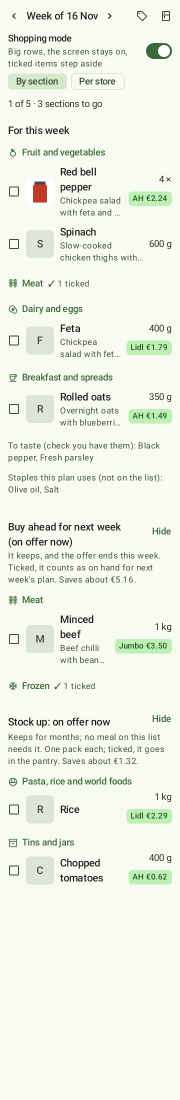
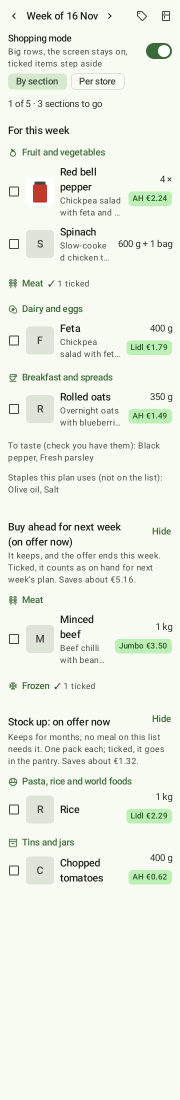
Shopping list keeps amounts that cannot be weighed on the row (#100)
A line without a weight (1 bag, an unlinked 250 ml) made the whole item lose its
grams or its amount. ShoppingItem gets two optional fields, knownGrams and
otherAmounts, so the row reads 200 g + 1 bag; grams and pieces keep their meaning
for installed apps.

diff --git a/server/src/test/kotlin/dev/tobins/mealplanner/server/ShoppingNeedsTest.kt b/server/src/test/kotlin/dev/tobins/mealplanner/server/ShoppingNeedsTest.kt
@@ -1,0 +1,72 @@
+package dev.tobins.mealplanner.server
+
+import dev.tobins.mealplanner.api.Ingredient
+import dev.tobins.mealplanner.recipes.IngredientLine
+import dev.tobins.mealplanner.units.Dimension
+import kotlin.test.Test
+import kotlin.test.assertEquals
+import kotlin.test.assertNull
+
+class ShoppingNeedsTest {
+    private val spinach = Ingredient(1, "Spinach", null, null, null, null, null, isStaple = false)
+
+    private fun grams(amount: Double, item: String) = IngredientLine(amount, "g", Dimension.WEIGHT, amount, item, null)
+    private fun count(amount: Double, unit: String, item: String) = IngredientLine(amount, unit, Dimension.COUNT, null, item, null)
+    private fun millilitres(amount: Double, item: String) = IngredientLine(amount, "ml", Dimension.VOLUME, amount, item, null)
+
+    /** The needs of one-serving recipes, one per argument, each planned for [portions] portions. */
+    private fun needs(portions: Double, vararg recipes: List<Pair<IngredientLine, Ingredient?>>): List<ShoppingNeed> {
+        val planned = recipes.indices.map { PlannedRecipe(it.toLong(), "R$it", portions) }
+        val lines = recipes.mapIndexed { i, l -> i.toLong() to RecipeLines(1, l) }.toMap()
+        return shoppingNeeds(planned, lines, emptyMap()).needs
+    }
+
+    @Test
+    fun weightAndAnUnweighableCountOfOneIngredientAreBothKept() {
+        val need = needs(2.0, listOf(grams(200.0, "spinach") to spinach), listOf(count(1.0, "bag", "spinach") to spinach)).single()
+
+        assertNull(need.totalGrams, "the weight of the whole is still unknown")
+        assertEquals(400.0, need.knownGrams)
+        assertEquals(listOf("2 bag"), need.otherAmounts)
+        assertEquals(2.0, need.pieces, "pieces keeps its meaning")
+    }
+
+    @Test
+    fun anUnlinkedVolumeIsKeptScaledToThePortions() {
+        val need = needs(2.0, listOf(millilitres(125.0, "coconut milk") to null)).single()
+
+        assertEquals(listOf("250 ml"), need.otherAmounts)
+        assertNull(need.knownGrams)
+        assertNull(need.totalGrams)
+    }
+
+    @Test
+    fun amountsAreSummedPerUnitAndRoundedUp() {
+        val need = needs(
+            1.0,
+            listOf(count(1.5, "can", "tomatoes") to null),
+            listOf(count(1.0, "Can", "tomatoes") to null),
+            listOf(count(0.2, "clove", "tomatoes") to null),
+        ).single()
+
+        assertEquals(listOf("3 can", "1 clove"), need.otherAmounts)
+    }
+
+    @Test
+    fun aWeighableIngredientHasNoOtherAmounts() {
+        val need = needs(1.0, listOf(grams(300.0, "spinach") to spinach)).single()
+
+        assertEquals(300.0, need.totalGrams)
+        assertNull(need.knownGrams)
+        assertEquals(emptyList(), need.otherAmounts)
+    }
+
+    @Test
+    fun aCountOfTheIngredientItselfStaysInPieces() {
+        val onion = Ingredient(2, "Onion", null, null, null, null, null, isStaple = false)
+        val need = needs(1.0, listOf(count(2.0, "onion", "") to onion)).single()
+
+        assertEquals(2.0, need.pieces)
+        assertEquals(emptyList(), need.otherAmounts)
+    }
+}

diff --git a/composeApp/src/commonMain/kotlin/dev/tobins/mealplanner/app/ShoppingScreen.kt b/composeApp/src/commonMain/kotlin/dev/tobins/mealplanner/app/ShoppingScreen.kt
@@ -21,6 +21,7 @@ import androidx.compose.foundation.layout.fillMaxSize
 import androidx.compose.foundation.layout.fillMaxWidth
 import androidx.compose.foundation.layout.padding
 import androidx.compose.foundation.layout.size
+import androidx.compose.foundation.layout.widthIn
 import androidx.compose.foundation.lazy.LazyColumn
 import androidx.compose.foundation.lazy.LazyListScope
 import androidx.compose.foundation.lazy.items
@@ -47,6 +48,7 @@ import androidx.compose.runtime.saveable.rememberSaveable
 import androidx.compose.runtime.setValue
 import androidx.compose.ui.Alignment
 import androidx.compose.ui.Modifier
+import androidx.compose.ui.text.style.TextAlign
 import androidx.compose.ui.text.style.TextDecoration
 import androidx.compose.ui.text.style.TextOverflow
 import androidx.compose.ui.unit.dp
@@ -59,12 +61,17 @@ import kotlinx.coroutines.launch
 import kotlin.math.ceil
 import kotlin.math.roundToInt
 
-/** `3 × · 330 g`, `450 g`, `2 ×`, or empty when the recipes give no quantity. */
-fun ShoppingItem.quantityText(locale: FormatLocale): String = listOfNotNull(
+/**
+ * `3 × · 330 g`, `450 g`, `2 ×`, `200 g + 1 bag`, `250 ml`, or empty when the recipes give no
+ * quantity. What could not be weighed ([ShoppingItem.otherAmounts]) follows the known weight; the
+ * piece count is left out then, as it would count those amounts a second time.
+ */
+fun ShoppingItem.quantityText(locale: FormatLocale): String {
+    val weight = (grams ?: knownGrams)?.let { if (it >= 1000) "${formatAmount(it / 1000, locale)} kg" else "${it.roundToInt()} g" }
+    if (otherAmounts.isNotEmpty()) return (listOfNotNull(weight) + otherAmounts).joinToString(" + ")
     // Pieces are rounded up: nobody buys 1.5 onions.
-    pieces?.let { "${ceil(it - 1e-9).toInt()} ×" },
-    grams?.let { if (it >= 1000) "${formatAmount(it / 1000, locale)} kg" else "${it.roundToInt()} g" },
-).joinToString(" · ")
+    return listOfNotNull(pieces?.let { "${ceil(it - 1e-9).toInt()} ×" }, weight).joinToString(" · ")
+}
 
 /**
  * What to buy for a week's plan, grouped by shop section in the order you walk the shop, with
@@ -620,8 +627,9 @@ private fun ShoppingRow(item: ShoppingItem, offer: Offer?, shops: Set<Store>, sh
                 )
             }
         }
-        Column(Modifier.padding(horizontal = 12.dp), horizontalAlignment = Alignment.End) {
-            Text(item.quantityText(t.locale), style = MaterialTheme.typography.bodyMedium.numeric(), softWrap = false)
+        Column(Modifier.padding(horizontal = 12.dp).widthIn(max = 128.dp), horizontalAlignment = Alignment.End) {
+            // Long amounts such as "200 g + 1 bag" wrap rather than squeeze the name.
+            Text(item.quantityText(t.locale), style = MaterialTheme.typography.bodyMedium.numeric(), textAlign = TextAlign.End)
             if (offer != null) {
                 // A tap shows the full deal; the rest of the row keeps ticking. The badge looks small
                 // but its touch area is 48 dp, as Material asks.

diff --git a/server/src/main/kotlin/dev/tobins/mealplanner/server/ShoppingNeeds.kt b/server/src/main/kotlin/dev/tobins/mealplanner/server/ShoppingNeeds.kt
@@ -7,6 +7,7 @@ import dev.tobins.mealplanner.nutrition.NutritionCalculator
 import dev.tobins.mealplanner.recipes.IngredientLine
 import dev.tobins.mealplanner.shopping.ShopSection
 import dev.tobins.mealplanner.units.Dimension
+import kotlin.math.ceil
 
 /** A recipe in the amount to shop for: [portions] of its servings, leftovers included. */
 data class PlannedRecipe(val recipeId: Long, val title: String, val portions: Double)
@@ -16,10 +17,24 @@ class ShoppingNeed(val key: ShoppingKey, val ingredient: Ingredient?, val name: 
     var grams = 0.0
     var gramsKnown = true
     var pieces = 0.0
+
+    /** What could not be converted to grams and is not the ingredient itself, summed per unit as written, scaled. */
+    private val others = linkedMapOf<String, Double>()
     val recipes = linkedSetOf<String>()
 
     /** The total weight, when every use could be converted to grams and there is some. */
     val totalGrams: Double? get() = grams.takeIf { gramsKnown && it > 0 }
+
+    /** The weight of the lines that could be converted, when [totalGrams] is null because other lines could not. */
+    val knownGrams: Double? get() = grams.takeIf { !gramsKnown && it > 0 }
+
+    /** `1 bag`, `250 ml`: [others] rounded up to whole units, in the order first met. */
+    val otherAmounts: List<String> get() = others.map { (unit, amount) -> "${ceil(amount - 1e-9).toInt()} $unit" }
+
+    /** Adds a line that has no weight: a count in a container or a volume without a density. */
+    fun addOther(unit: String, amount: Double) {
+        others.merge(unit.lowercase(), amount, Double::plus)
+    }
 
     /** The row on the list, with what is known about buying it. */
     fun toItem(
@@ -33,6 +48,8 @@ class ShoppingNeed(val key: ShoppingKey, val ingredient: Ingredient?, val name: 
         key = key.toString(),
         name = name,
         grams = totalGrams,
+        knownGrams = knownGrams,
+        otherAmounts = otherAmounts,
         pieces = pieces.takeIf { it > 0 },
         category = section.title,
         recipes = recipes.toList(),
@@ -83,6 +100,8 @@ fun shoppingNeeds(recipes: List<PlannedRecipe>, lines: Map<Long, RecipeLines>, s
             val grams = gramsOf(line, ingredient)
             if (grams != null) need.grams += grams * factor else need.gramsKnown = false
             if (line.dimension == Dimension.COUNT) need.pieces += amount * factor
+            val unit = line.unit
+            if (grams == null && unit != null && !line.unitIsTheIngredient) need.addOther(unit, amount * factor)
         }
     }
     return ShoppingNeeds(

diff --git a/composeApp/src/androidHostTest/kotlin/dev/tobins/mealplanner/app/FakeBackend.kt b/composeApp/src/androidHostTest/kotlin/dev/tobins/mealplanner/app/FakeBackend.kt
@@ -153,8 +153,8 @@ class FakeBackend(
         if (emptyWeek) return ShoppingList(weekStart, emptyList(), emptyList())
         // In walking order, as the server sends it: by shop section, then by name. The regular price is the
         // amount needed at the price per kg of `prices`; the pepper, counted in pieces only, has none.
-        fun item(key: String, name: String, grams: Double?, pieces: Double?, section: ShopSection, recipe: String?, checked: Boolean = false, offers: List<Offer> = emptyList(), imageUrl: String? = null, regularPrice: Double? = null) =
-            ShoppingItem(key, name, grams, pieces, section.title, listOfNotNull(recipe), onHand = false, checked = checked, offers = offers, imageUrl = imageUrl, regularPrice = regularPrice)
+        fun item(key: String, name: String, grams: Double?, pieces: Double?, section: ShopSection, recipe: String?, checked: Boolean = false, offers: List<Offer> = emptyList(), imageUrl: String? = null, regularPrice: Double? = null, knownGrams: Double? = null, otherAmounts: List<String> = emptyList()) =
+            ShoppingItem(key, name, grams, pieces, section.title, listOfNotNull(recipe), onHand = false, checked = checked, knownGrams = knownGrams, otherAmounts = otherAmounts, offers = offers, imageUrl = imageUrl, regularPrice = regularPrice)
         // Offers that end this week, for the advice: with their share already worked out, as the server sends them.
         fun deal(store: Store, title: String, deal: String, price: Double, paidShare: Double) =
             Offer(store, title, deal, price, null, null, null, "2026-11-16", "2026-11-22", paidShare = paidShare)
@@ -164,7 +164,8 @@ class FakeBackend(
             weekStart = weekStart,
             items = listOf(
                 item("pepper", "Red bell pepper", null, 4.0, ShopSection.FRUIT_VEG, chickpea, offers = listOf(offerList[0].copy(paidShare = 0.75)), imageUrl = offerList[0].imageUrl),
-                item("spinach", "Spinach", 600.0, null, ShopSection.FRUIT_VEG, chicken, regularPrice = 3.98),
+                // Weighed in one recipe and counted in bags in another: the weight is known only in part.
+                item("spinach", "Spinach", null, 1.0, ShopSection.FRUIT_VEG, chicken, knownGrams = 600.0, otherAmounts = listOf("1 bag")),
                 item(
                     "chicken", "Chicken thigh fillet", 1400.0, null, ShopSection.MEAT, chicken, checked = true,
                     offers = listOf(offerList[1].copy(paidShare = 0.75)), imageUrl = offerList[1].imageUrl, regularPrice = 13.97,

diff --git a/composeApp/src/commonTest/kotlin/dev/tobins/mealplanner/app/FormattingTest.kt b/composeApp/src/commonTest/kotlin/dev/tobins/mealplanner/app/FormattingTest.kt
@@ -15,6 +15,7 @@ import kotlin.test.assertEquals
 import kotlin.test.assertNull
 
 private val en = FormatLocale.English
+private val nl = FormatLocale.Dutch
 
 /** English texts with the decimal comma of a German device, as the "System" language gives. */
 private val germanFormats = Strings.of(AppLanguage.SYSTEM, "de-DE")
@@ -63,6 +64,24 @@ class FormattingTest {
     }
 
     @Test
+    fun shoppingQuantitiesKeepWhatCannotBeWeighed() {
+        fun item(knownGrams: Double?, pieces: Double?, vararg other: String) =
+            dev.tobins.mealplanner.api.ShoppingItem(
+                "k", "x", null, pieces, "c", emptyList(), onHand = false, checked = false,
+                knownGrams = knownGrams, otherAmounts = other.toList(),
+            )
+
+        assertEquals("200 g + 1 bag", item(200.0, 1.0, "1 bag").quantityText(en))
+        assertEquals("1.25 kg + 2 can + 3 clove", item(1250.0, 5.0, "2 can", "3 clove").quantityText(en))
+        assertEquals("1,25 kg + 1 bag", item(1250.0, 1.0, "1 bag").quantityText(nl))
+        assertEquals("250 ml", item(null, null, "250 ml").quantityText(en))
+        assertEquals("2 can", item(null, 2.0, "2 can").quantityText(nl))
+        // Weight known, and a piece count that has no unit of its own.
+        assertEquals("2 × · 200 g", item(200.0, 2.0).quantityText(en))
+        assertEquals("", item(null, null).quantityText(en))
+    }
+
+    @Test
     fun offersAreSummarisedPerStore() {
         fun offer(store: dev.tobins.mealplanner.api.Store, deal: String?, price: Double? = null, was: Double? = null) =
             dev.tobins.mealplanner.api.Offer(store, "x", deal, price, was, validFrom = "a", validUntil = "b")
@@ -78,7 +97,6 @@ class FormattingTest {
 
     @Test
     fun moneyAndAmountsFollowTheDecimalSeparator() {
-        val nl = FormatLocale.Dutch
         assertEquals("€2,11", formatEuro(2.11, nl))
         assertEquals("1,5", formatAmount(1.5, nl))
         assertEquals("1,25 kg", item(1250.0).quantityText(nl))

diff --git a/shared/src/commonMain/kotlin/dev/tobins/mealplanner/api/Plans.kt b/shared/src/commonMain/kotlin/dev/tobins/mealplanner/api/Plans.kt
@@ -88,6 +88,17 @@ data class ShoppingItem(
      * ingredient has no regular price or the amount isn't known in grams.
      */
     val regularPrice: Double? = null,
+    /**
+     * The weight of the uses that could be converted to grams, set only when [grams] is null
+     * because other uses could not (see [otherAmounts]) and some weight is known.
+     */
+    val knownGrams: Double? = null,
+    /**
+     * What could not be converted to grams, summed per unit as written, scaled to the planned
+     * portions and rounded up to whole units: `1 bag`, `250 ml`, `2 can`. Counts whose unit is the
+     * ingredient itself (`1 | onion`) are not here; they stay in [pieces].
+     */
+    val otherAmounts: List<String> = emptyList(),
 )
 
 /**
